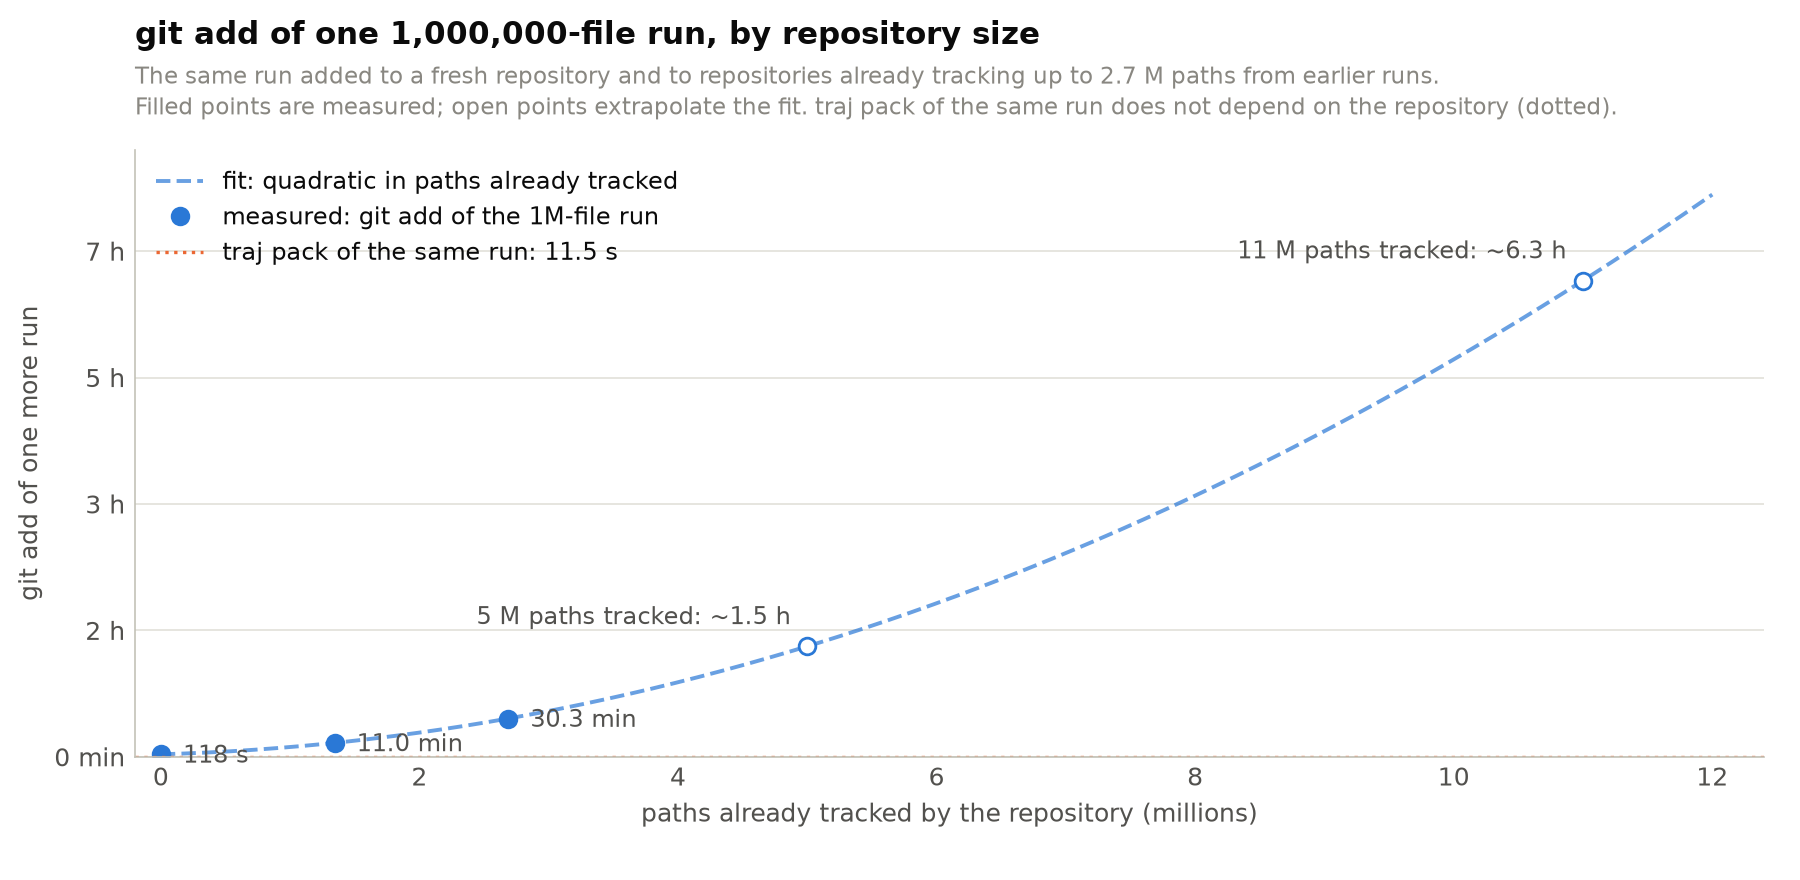
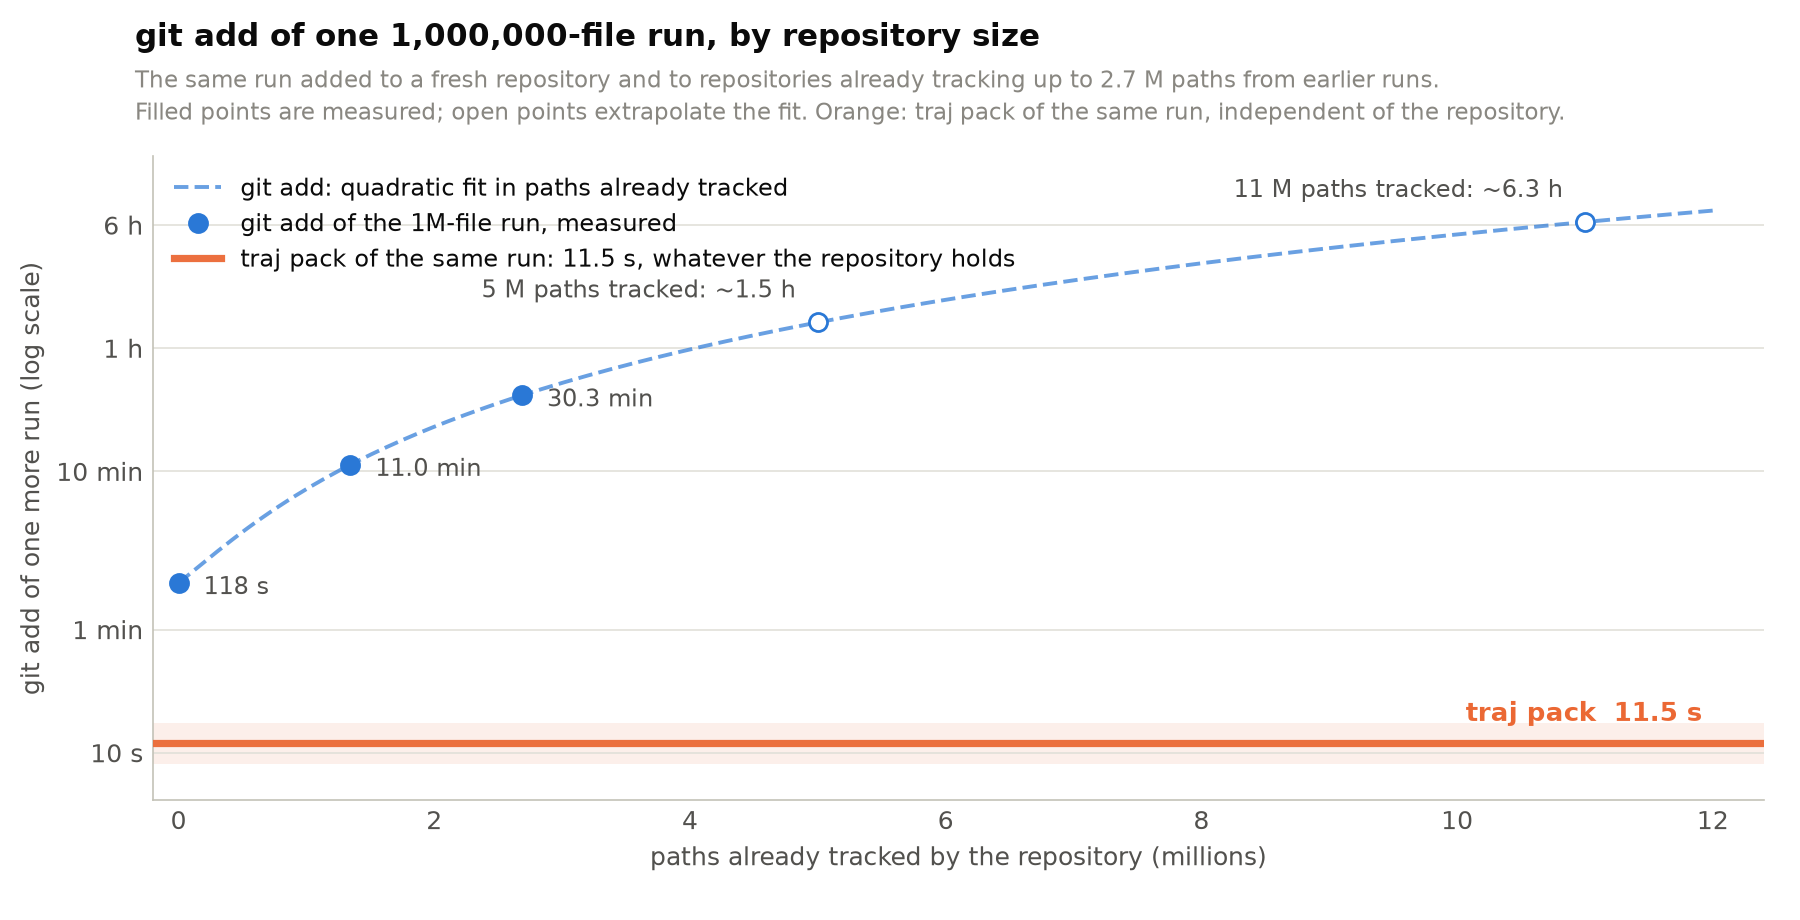
bench: log-scale y axis on the git-index-scale chart, traj pack line highlighted
On a linear axis the 11.5 s traj pack line was flattened onto the x axis. With
seconds on a log scale (10 s to 6 h ticks) it is a visible orange line with its
own label and band, and the three measured git points plus the extrapolation
read at every scale.

diff --git a/bench/plot_index_scale.py b/bench/plot_index_scale.py
@@ -46,34 +46,45 @@ def main():
     xs = np.linspace(0, 12e6, 200)
     ys = a + b * xs + c * xs**2
 
-    fig, ax = plt.subplots(figsize=(9, 4.4), dpi=DPI)
-    ax.plot(xs / 1e6, ys / 60, color=C_GIT, lw=1.4, ls="--", alpha=0.7, label="fit: quadratic in paths already tracked")
-    ax.plot(prior / 1e6, secs / 60, "o", color=C_GIT, ms=6, label="measured: git add of the 1M-file run")
-    for p, s in zip(prior, secs):
-        ax.annotate(fmt_secs(s), (p / 1e6, s / 60), textcoords="offset points", xytext=(8, -3), fontsize=8.5, color=INK2)
+    fig, ax = plt.subplots(figsize=(9, 4.6), dpi=DPI)
+    ax.set_yscale("log")
+    # the fit and the measured points (seconds, log scale)
+    ax.plot(xs / 1e6, ys, color=C_GIT, lw=1.4, ls="--", alpha=0.7, label="git add: quadratic fit in paths already tracked")
+    ax.plot(prior / 1e6, secs, "o", color=C_GIT, ms=6.5, label="git add of the 1M-file run, measured")
+    for p_, s_ in zip(prior, secs):
+        ax.annotate(fmt_secs(s_), (p_ / 1e6, s_), textcoords="offset points", xytext=(9, -4), fontsize=8.5, color=INK2)
     for m in (5e6, 11e6):
-        y = (a + b * m + c * m**2) / 60
-        ax.plot([m / 1e6], [y], "o", mfc="white", mec=C_GIT, ms=6)
-        ax.annotate(f"{m / 1e6:.0f} M paths tracked: ~{y / 60:.1f} h" if y >= 60 else f"{m / 1e6:.0f} M paths tracked: ~{y:.0f} min",
-                    (m / 1e6, y), textcoords="offset points", xytext=(-6, 8), ha="right", fontsize=8.5, color=INK2)
-    ax.axhline(0, color="none")
+        y = a + b * m + c * m**2
+        ax.plot([m / 1e6], [y], "o", mfc="white", mec=C_GIT, ms=6.5)
+        label = f"{m / 1e6:.0f} M paths tracked: ~{y / 3600:.1f} h" if y >= 3600 else f"{m / 1e6:.0f} M paths tracked: ~{y / 60:.0f} min"
+        ax.annotate(label, (m / 1e6, y), textcoords="offset points", xytext=(-8, 9), ha="right", fontsize=8.5, color=INK2)
+    # traj pack: flat, highlighted
+    traj_s = 11.5
+    ax.axhline(traj_s, color=C_TRAJ, lw=2.6, alpha=0.95, zorder=4, label=f"traj pack of the same run: {fmt_secs(traj_s)}, whatever the repository holds")
+    ax.axhspan(traj_s / 1.35, traj_s * 1.35, color=C_TRAJ, alpha=0.10, lw=0, zorder=1)
+    ax.annotate(f"traj pack  {fmt_secs(traj_s)}", (12.0, traj_s), textcoords="offset points", xytext=(-4, 8),
+                ha="right", fontsize=9.5, color=C_TRAJ, fontweight="bold")
     ax.set_xlabel("paths already tracked by the repository (millions)")
-    ax.set_ylabel("git add of one more run")
-    ax.yaxis.set_major_formatter(plt.FuncFormatter(lambda v, _: f"{v / 60:.0f} h" if v >= 60 else f"{v:.0f} min"))
+    ax.set_ylabel("git add of one more run (log scale)")
     ax.set_xlim(-0.2, 12.4)
-    ax.set_ylim(0, max(ys.max() / 60 * 1.08, 1))
+    ax.set_ylim(5, ys.max() * 2.2)
+    ticks = [10, 60, 600, 3600, 6 * 3600]
+    ax.set_yticks(ticks)
+    ax.set_yticklabels(["10 s", "1 min", "10 min", "1 h", "6 h"])
+    ax.yaxis.set_minor_formatter(plt.NullFormatter())
+    ax.grid(True, axis="y", which="major")
+    ax.grid(False, axis="y", which="minor")
     fig.text(0.075, 0.95, "git add of one 1,000,000-file run, by repository size", fontsize=11, weight="bold")
     fig.text(0.075, 0.905,
              f"The same run added to a fresh repository and to repositories already tracking up to "
              f"{prior.max() / 1e6:.1f} M paths from earlier runs.",
              fontsize=8.3, color=MUTED)
     fig.text(0.075, 0.87,
-             "Filled points are measured; open points extrapolate the fit. traj pack of the same run does not depend "
-             "on the repository (dotted).",
+             "Filled points are measured; open points extrapolate the fit. Orange: traj pack of the same run, "
+             "independent of the repository.",
              fontsize=8.3, color=MUTED)
-    ax.axhline(11.5 / 60, color=C_TRAJ, lw=1.2, ls=":", label=f"traj pack of the same run: {fmt_secs(11.5)}")
     ax.legend(loc="upper left")
-    fig.subplots_adjust(left=0.075, right=0.98, top=0.83, bottom=0.14)
+    fig.subplots_adjust(left=0.085, right=0.98, top=0.83, bottom=0.13)
     out = os.path.join(REPO, "docs", "benchmarks", "git-index-scale.png")
     fig.savefig(out)
     print(f"wrote {os.path.relpath(out, REPO)} from {os.path.relpath(path, REPO)}: fit add_s = {a:.0f} + {b * 1e6:.0f}*M + {c * 1e12:.0f}*M^2 (M = paths already tracked, millions)")
